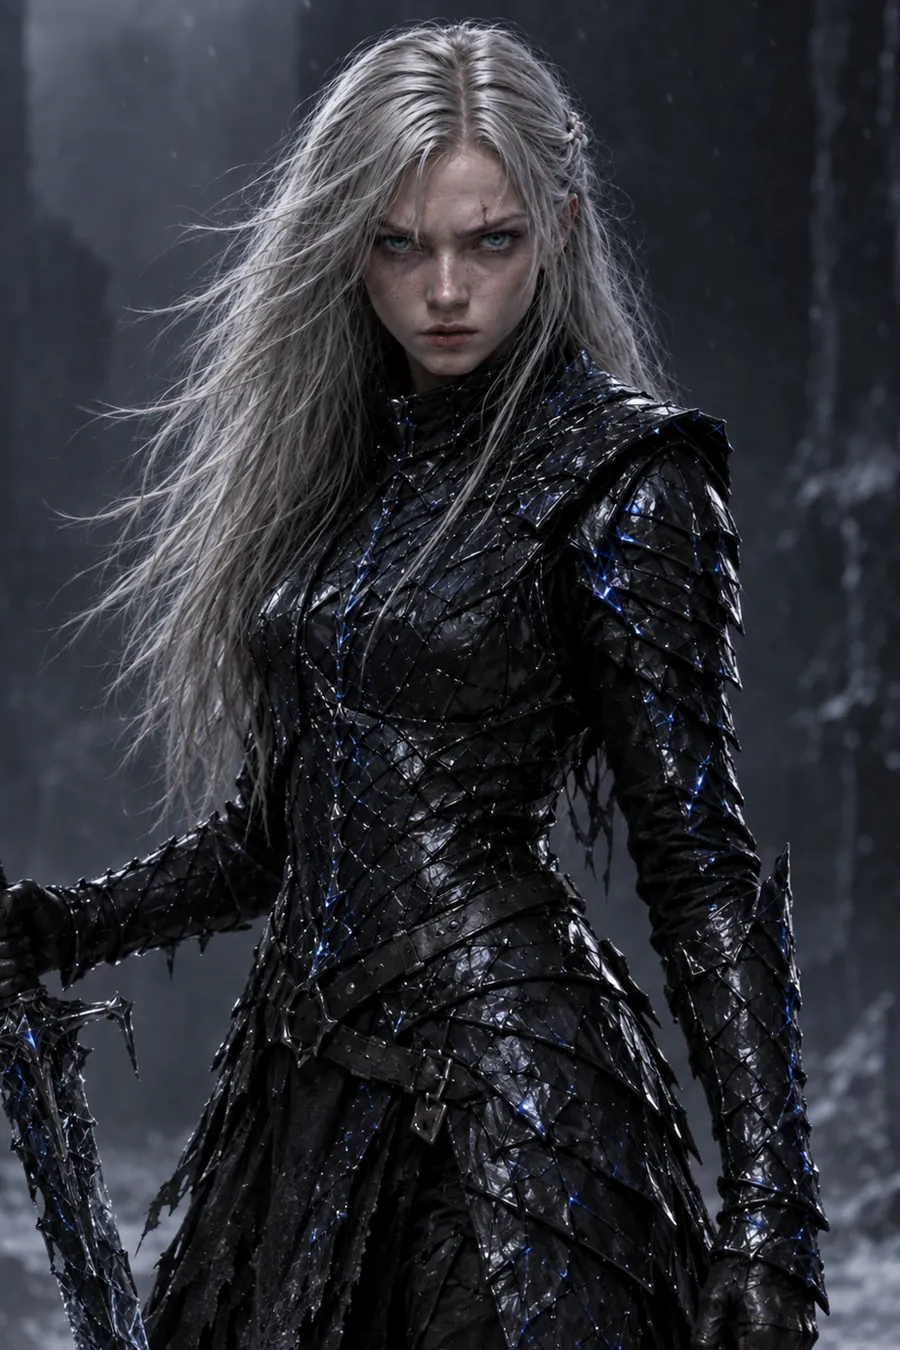
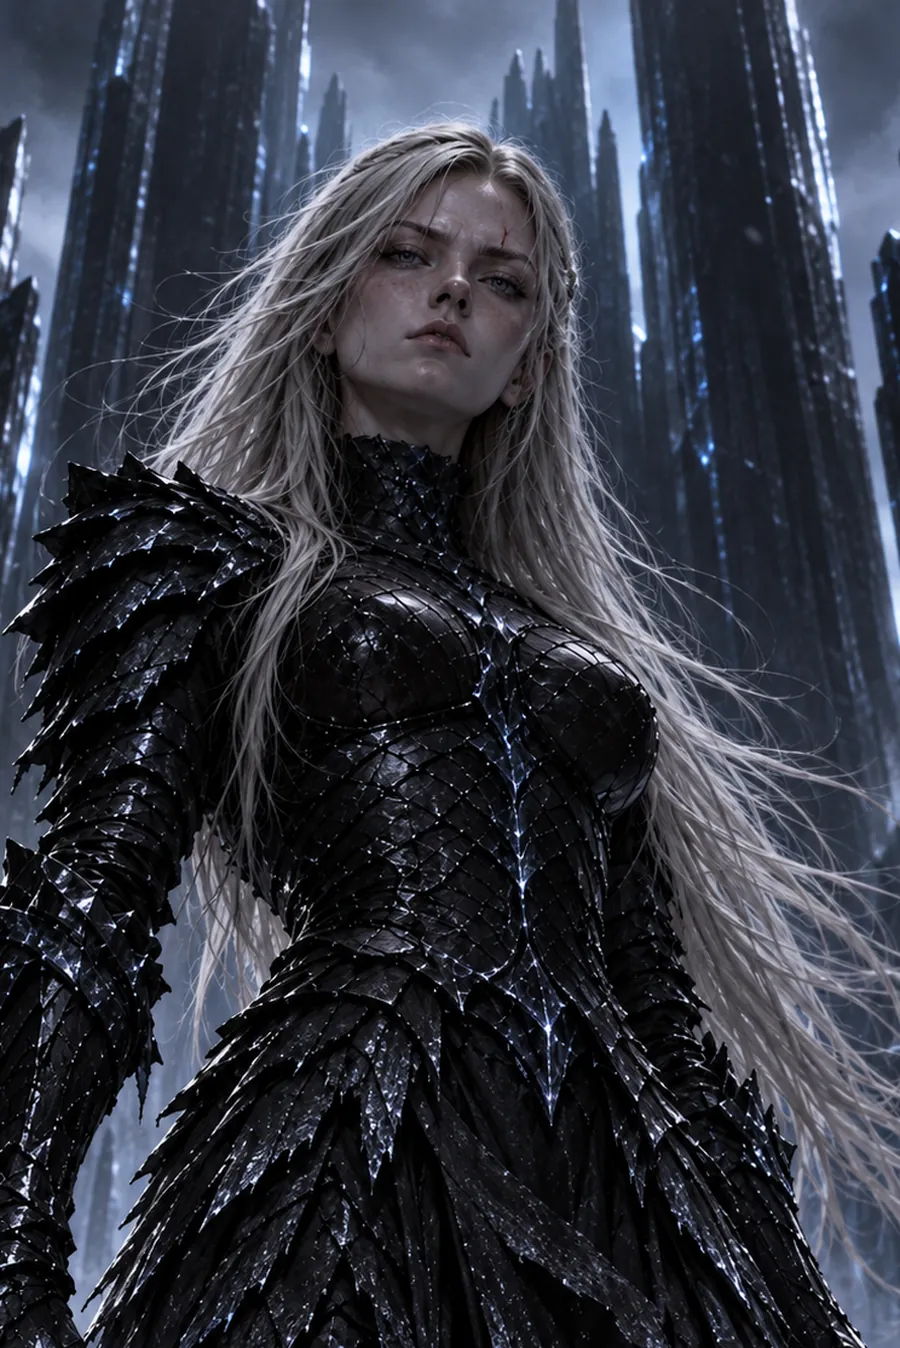
Elian nueva y retrato de Zaira
Elian: version a contrapicado entre las agujas de hielo, con el encuadre
aprobado. Zaira: verificada contra su ficha del canon (Fulgur\Draevin), unlock
20, que es donde el libro la nombra por primera vez.

En las dos fallo la deteccion automatica de cara: Elian mira hacia abajo en
escorzo y a Zaira la protesis le cruza el rostro. Se ubicaron a mano sobre una
rejilla de coordenadas y se aplico el mismo criterio, 15% de cara y 22% de aire.

Diez retratos y un grupo. Comprobado que los width/height declarados coinciden
con las imagenes reales: 0 desajustes.

diff --git a/content.js b/content.js
@@ -22,10 +22,11 @@ window.BOOK_DATA = {
   ],
   characters: [
     { id: "ian", name: "Ian de Vries", file: "assets/personajes/ian-de-vries.webp", w: 900, h: 1350, unlock: 1 },
-    { id: "elian", name: "Elian Nahl", file: "assets/personajes/elian-nahl.webp", w: 900, h: 1350, unlock: 1 },
+    { id: "elian", name: "Elian Nahl", file: "assets/personajes/elian-nahl.webp", w: 900, h: 1348, unlock: 1 },
     { id: "kier", name: "Kier de Vries", file: "assets/personajes/kier-de-vries.webp", w: 900, h: 1351, unlock: 1 },
     { id: "lina", name: "Lina Aurelian", file: "assets/personajes/lina-aurelian.webp", w: 900, h: 1348, unlock: 1 },
     { id: "daren", name: "Daren de Vries", file: "assets/personajes/daren-de-vries.webp", w: 900, h: 1350, unlock: 1 },
+    { id: "zaira", name: "Zaira", file: "assets/personajes/zaira.webp", w: 900, h: 1349, unlock: 20 },
     { id: "aldren", name: "Aldren Soryn", epithet: "El Heredero de la Luna Bélica", file: "assets/personajes/aldren-soryn.webp", w: 900, h: 1195, unlock: 23 },
     { id: "yseva", name: "Yseva Soryn", epithet: "La Astrónoma de la Guerra", file: "assets/personajes/yseva-soryn.webp", w: 900, h: 1125, unlock: 31 },
     { id: "hastir", name: "Hastir Soryn", epithet: "La Garra Carmesí", file: "assets/personajes/hastir-soryn.webp", w: 900, h: 1174, unlock: 31 }

diff --git a/sw.js b/sw.js
@@ -1,6 +1,6 @@
 // REGLA (heredada del Libro I): todo cambio a index.html, styles.css, content.js,
 // app.js o nieve.js exige subir SHELL_CACHE antes de publicar.
-const SHELL_CACHE = "el-ciclo-inmovil-libro2-shell-v19";
+const SHELL_CACHE = "el-ciclo-inmovil-libro2-shell-v20";
 // Mismo nombre que AUDIO_CACHE en app.js ("Guardar sin conexión"). Si no
 // coinciden, el activate de abajo borra los capitulos guardados. No subirlo sin
 // motivo: vacia lo que cada oyente guardo.
